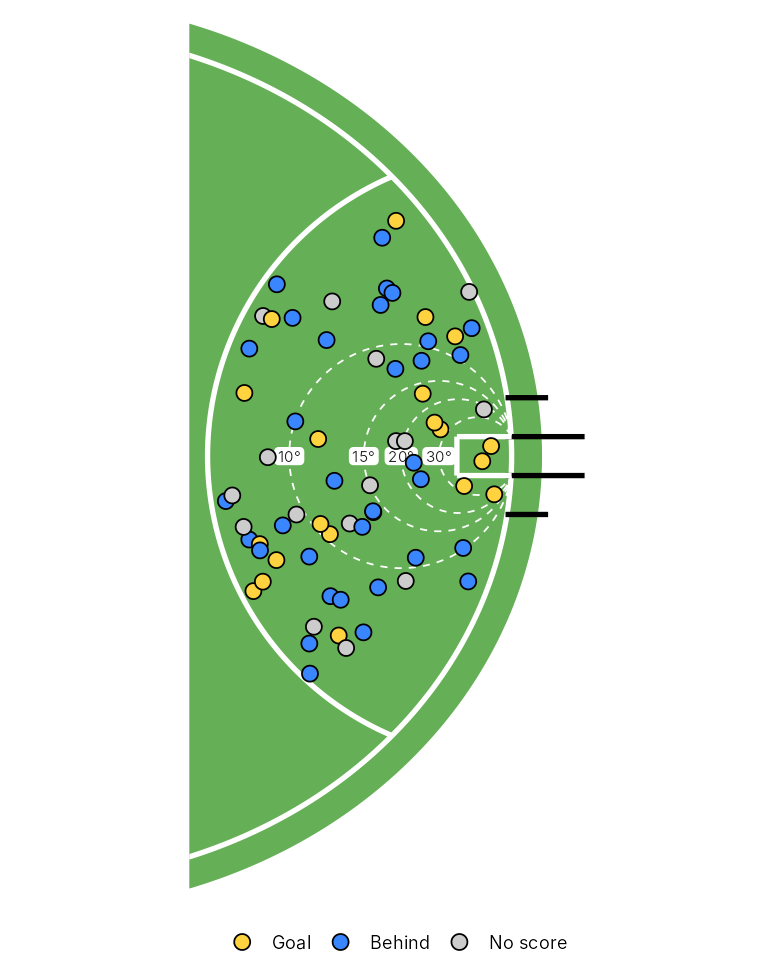
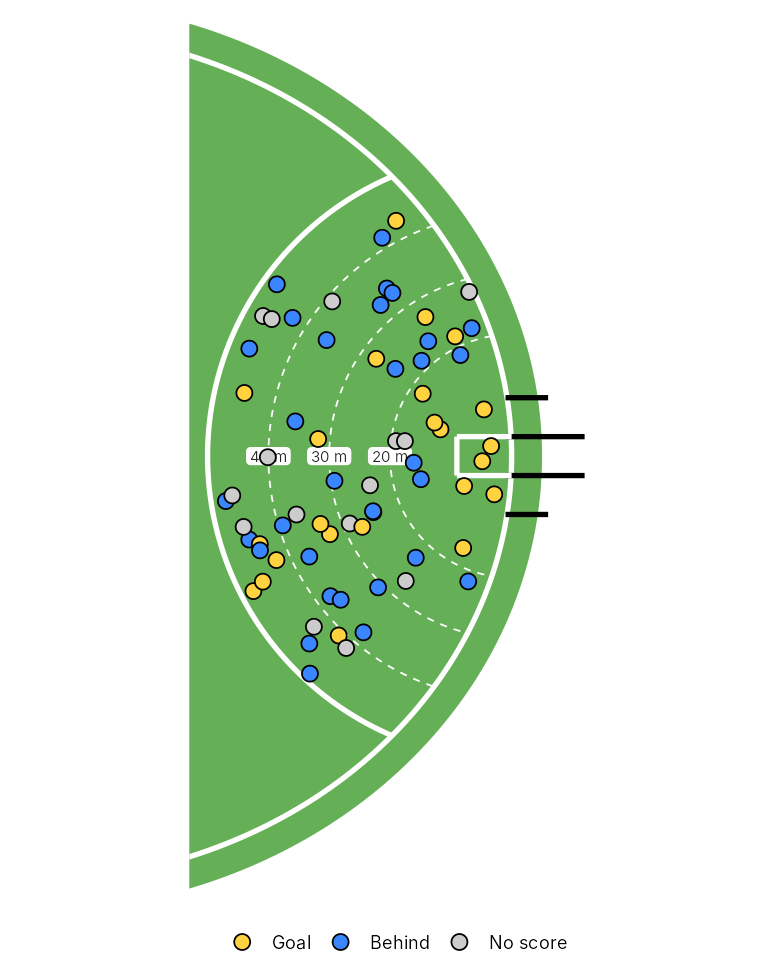
Replace scoring-angle contours with distance rings
afl_distance_rings() draws dashed rings at set distances from the centre of
the goal line (default 20 / 30 / 40 m), clipped to the ground like the 50m
arc. It replaces the unreleased afl_angle_contours(): distance reads at a
glance, where the angle lines needed explaining.

Claude-Session: https://claude.ai/code/session_01J3tan4fhA3ABUQtwSexfS4

diff --git a/README.md b/README.md
@@ -1,6 +1,6 @@
 # PlotAFLField
 
-R functions that draw an AFL field to scale with `ggplot2`, sized to any venue, plus the analysis views that sit on top of it: half-field shot maps, scoring-angle contours, zone maps and heatmaps. Every function returns a ggplot object, so you can layer your own data (kicks, marks, shots at goal) on top. [FootyStatsApp](https://github.com/CooperDenny/FootyStatsApp) uses it for every field visual.
+R functions that draw an AFL field to scale with `ggplot2`, sized to any venue, plus the analysis views that sit on top of it: half-field shot maps with distance rings, zone maps and heatmaps. Every function returns a ggplot object, so you can layer your own data (kicks, marks, shots at goal) on top. [FootyStatsApp](https://github.com/CooperDenny/FootyStatsApp) uses it for every field visual.
 
 ## Usage
 
@@ -18,7 +18,7 @@ Coordinates are metres with the origin at the centre bounce and x running goal t
 
 ### Vertical grounds
 
-Every function that draws a ground (`afl_field()`, `afl_half_field()`, `afl_zone_map()`, `afl_heatmap()`) takes `vertical = TRUE` to turn the ground so it runs up the page, with the +x goal at the top. Your data keeps the same x and y. The ground is rotated a quarter turn, not mirrored, so "left" stays the attacking team's left. Metres stay square because the panel's aspect ratio is fixed to the ground's dimensions, whatever layers you add. Layers such as `afl_angle_contours()` and your own `geom_point()`s rotate with the ground automatically.
+Every function that draws a ground (`afl_field()`, `afl_half_field()`, `afl_zone_map()`, `afl_heatmap()`) takes `vertical = TRUE` to turn the ground so it runs up the page, with the +x goal at the top. Your data keeps the same x and y. The ground is rotated a quarter turn, not mirrored, so "left" stays the attacking team's left. Metres stay square because the panel's aspect ratio is fixed to the ground's dimensions, whatever layers you add. Layers such as `afl_distance_rings()` and your own `geom_point()`s rotate with the ground automatically.
 
 ```r
 afl_field(160, 140, 50, vertical = TRUE) +
@@ -31,7 +31,7 @@ Don't add `coord_flip()` or `coord_fixed()` on top of a vertical ground; it alre
 |---|---|
 | `afl_field(venue_length, venue_width, venue_arclength, vertical = FALSE)` | The whole ground |
 | `afl_half_field(..., from = 0, end = "right", vertical = FALSE)` | One end of the ground. `from` is where the view starts (m from centre); `venue_length/2 - venue_arclength - 3` frames the 50 m arc. With `vertical = TRUE` the goal is at the top: a wide, short panel |
-| `afl_angle_contours(venue_length, venue_width, angles = c(10, 15, 20, 30))` | Layer: lines of equal scoring angle |
+| `afl_distance_rings(venue_length, venue_width, distances = c(20, 30, 40), end = "right")` | Layer: dashed rings at set distances from the centre of the goal line, for shot maps. `end = "both"` draws them at both goals |
 | `afl_zones(..., corridor_width = 50)` | Data frame of the nine zone polygons (3 thirds × 3 lanes), clipped to the boundary |
 | `afl_zone_of(x, y, ..., corridor_width = 50)` | Which third, lane and zone each point is in |
 | `afl_zone_map(data, ..., value = NULL, min_n = 1, vertical = FALSE)` | Zones shaded by share of events, or by the mean of `value` (e.g. an efficiency rate) |
@@ -58,10 +58,6 @@ All markings are to the dimensions in the AFL Laws of the Game:
 - 50 m arcs that meet the boundary line exactly. The crossing point is solved from the circle–ellipse intersection (`afl_arc_angle()`), so it stays exact for long, wide or perfectly round grounds.
 
 `afl_field()` stops with a clear message if the arc radius can't reach the boundary of the ground you've described.
-
-### Scoring-angle contours
-
-Every point on one contour sees the 6.4 m goal mouth at the same angle. By the inscribed angle theorem those points lie on a circle through both goal posts, with radius `3.2 / sin(angle)` and its centre `3.2 / tan(angle)` in front of the goal line. So the contours are exact circle arcs, not interpolated, and each one crosses the centre line of the ground `3.2 × cot(angle / 2)` metres out (10° ≈ 36.6 m, 20° ≈ 18.1 m, 30° ≈ 11.9 m). Angle is not the whole story for goal kicking, since distance matters too, but it separates "bad position" from "bad kick".
 
 ### Zones
 
@@ -95,10 +91,10 @@ All event data in these examples is simulated; see `examples.R`.
 `afl_half_field(venue_length = 160, venue_width = 140, venue_arclength = 50)`
 ![AFL Half Field](images/afl_half_field.png)
 
-`afl_field(160, 140, 50) + afl_angle_contours(160, 140, angles = c(10, 20, 30), end = "both")`
-![Scoring-angle contours](images/afl_angle_contours.png)
+`afl_field(160, 140, 50) + afl_distance_rings(160, 140, end = "both")`
+![Distance rings](images/afl_distance_rings.png)
 
-Shot map: `afl_half_field(160, 140, 50, from = 27) + afl_angle_contours(160, 140) + geom_point(data = shots, ...)`
+Shot map: `afl_half_field(160, 140, 50, from = 27) + afl_distance_rings(160, 140) + geom_point(data = shots, ...)`
 ![Shot map](images/afl_shot_map.png)
 
 The same shots with `afl_half_field(160, 140, 50, from = 27, vertical = TRUE)`

diff --git a/CLAUDE.md b/CLAUDE.md
@@ -6,7 +6,7 @@ R functions for plotting a customisable AFL field, and analysis views on top of 
 
 - `afl_field(venue_length, venue_width, venue_arclength)` — the whole ground. Parameters control the oval dimensions — different AFL venues have different field sizes.
 - `afl_half_field(..., from, end, vertical)` — one end, for shot maps
-- `afl_angle_contours(venue_length, venue_width, angles)` — layer of equal scoring-angle arcs (circles through both goal posts)
+- `afl_distance_rings(venue_length, venue_width, distances)` — layer of dashed rings at set distances from the centre of the goal line, clipped like the 50 m arc
 - `afl_zones()` / `afl_zone_of()` / `afl_zone_map()` — 3 thirds x 3 lanes; corridor width is a parameter
 - `afl_heatmap()` — base-R Gaussian KDE clipped to the boundary, opaque ramp starting at the grass colour
 - `afl_markings()` — layer of every marking, for redrawing lines over fills
